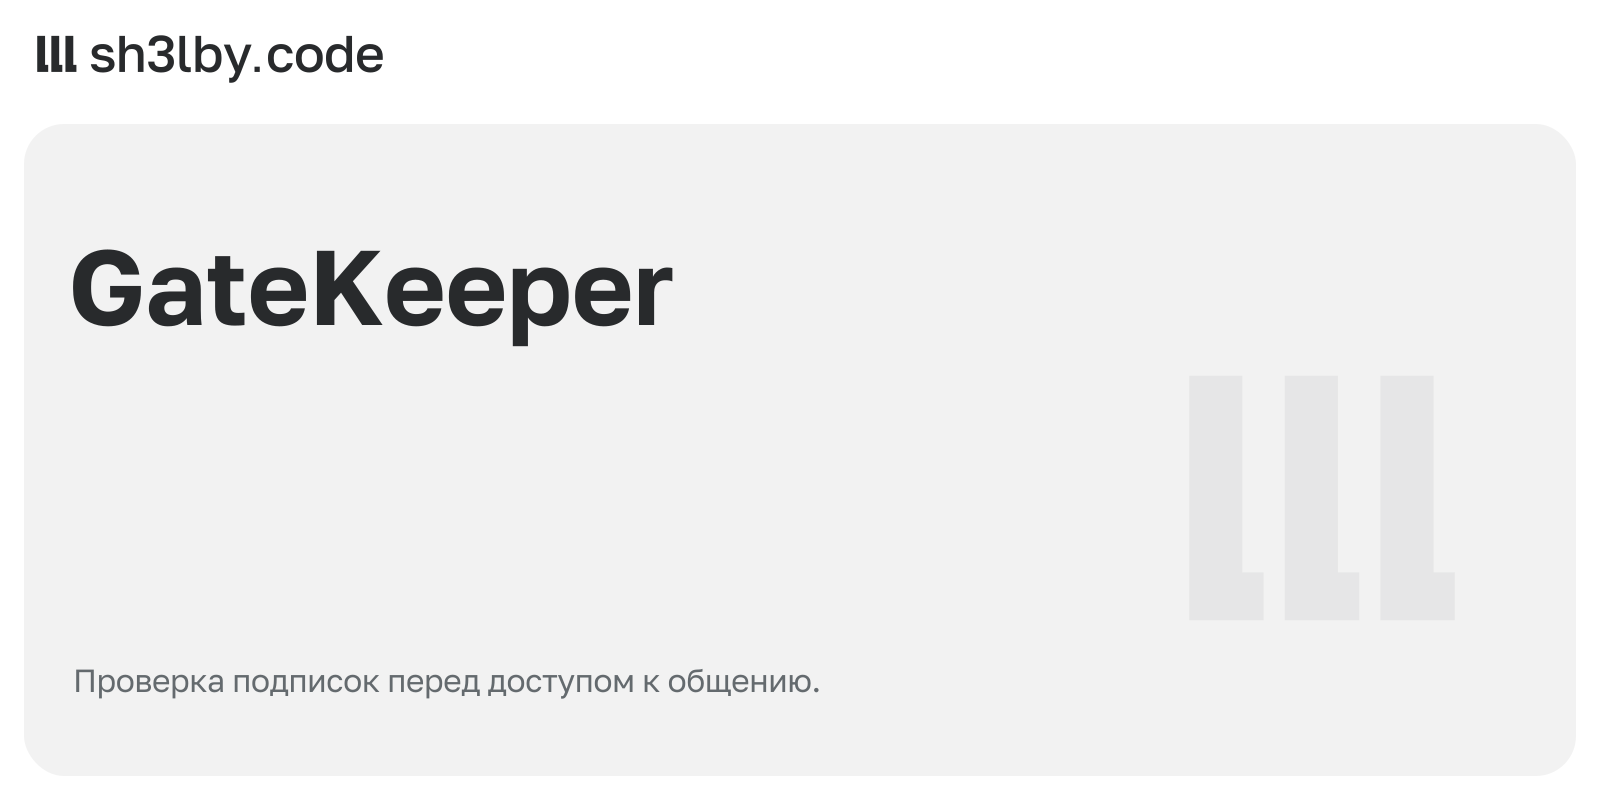
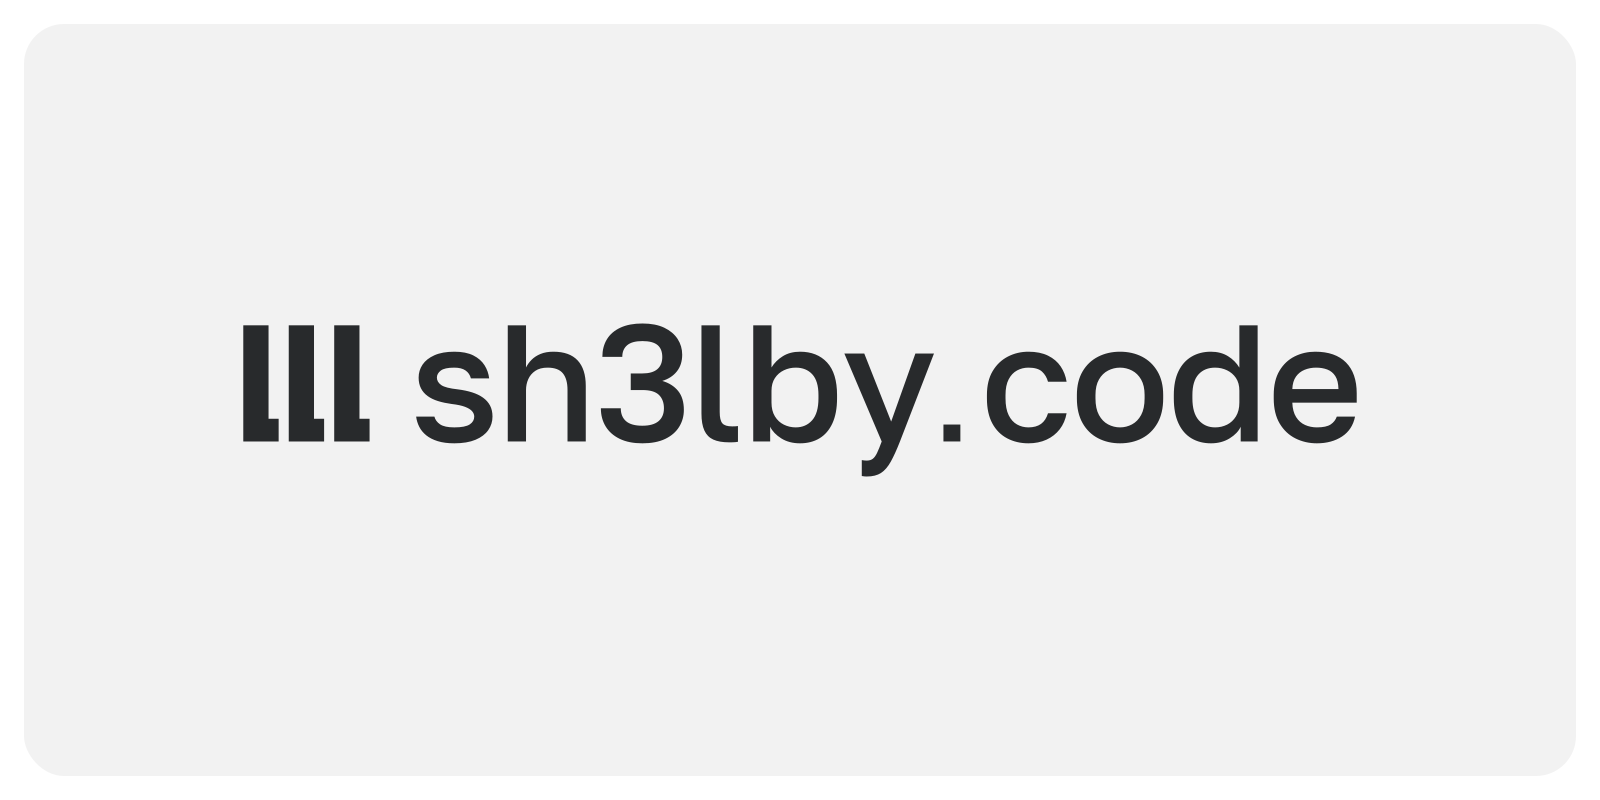
docs: use neutral_banner generator without customization

Changed region(s): [[0.0312, 0.3125, 0.875, 0.5938], [0.0312, 0.8438, 0.5, 0.875], [0.0, 0.0312, 0.25, 0.0938]]

diff --git a/README.md b/README.md
@@ -1,7 +1,7 @@
 # GateKeeper (sub-bot)
 
 <!-- portfolio-card:start -->
-[![GateKeeper — Проверка подписок перед доступом к общению.](docs/portfolio/card.png)](docs/portfolio/card.svg)
+[![sh3lby.code — нейтральная обложка](docs/portfolio/card.png)](docs/portfolio/card.svg)
 <!-- portfolio-card:end -->
 
 MVP Telegram-бот для публичного чата: проверяет обязательные подписки, ограничивает право писать, удаляет сообщения нарушителей, дедуплицирует уведомления и выдаёт муты.
